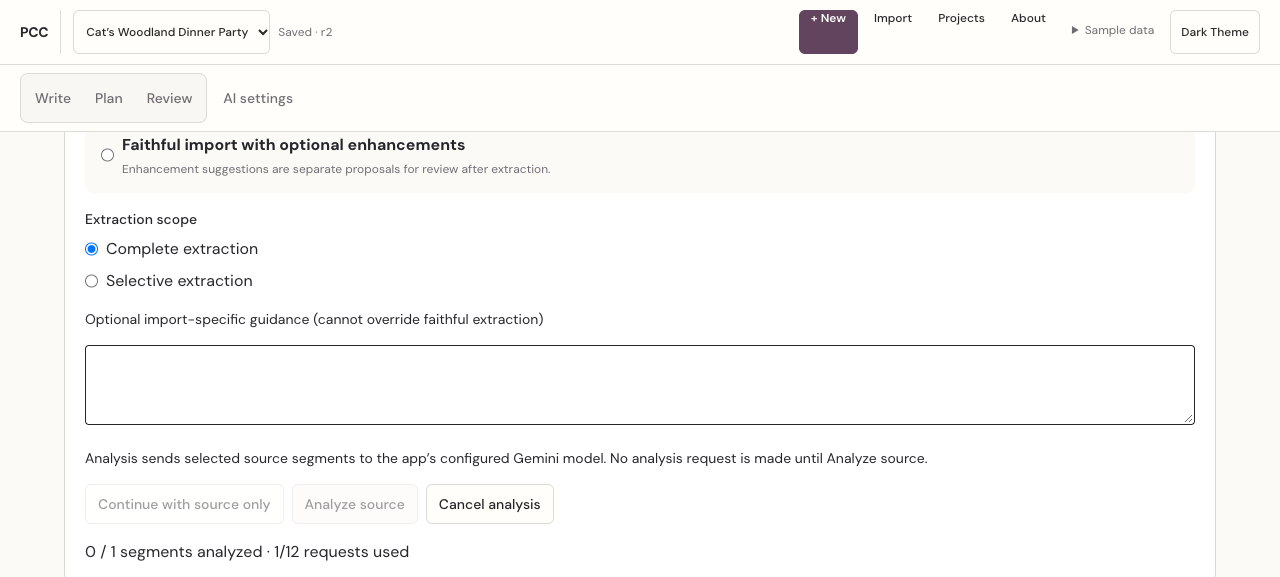
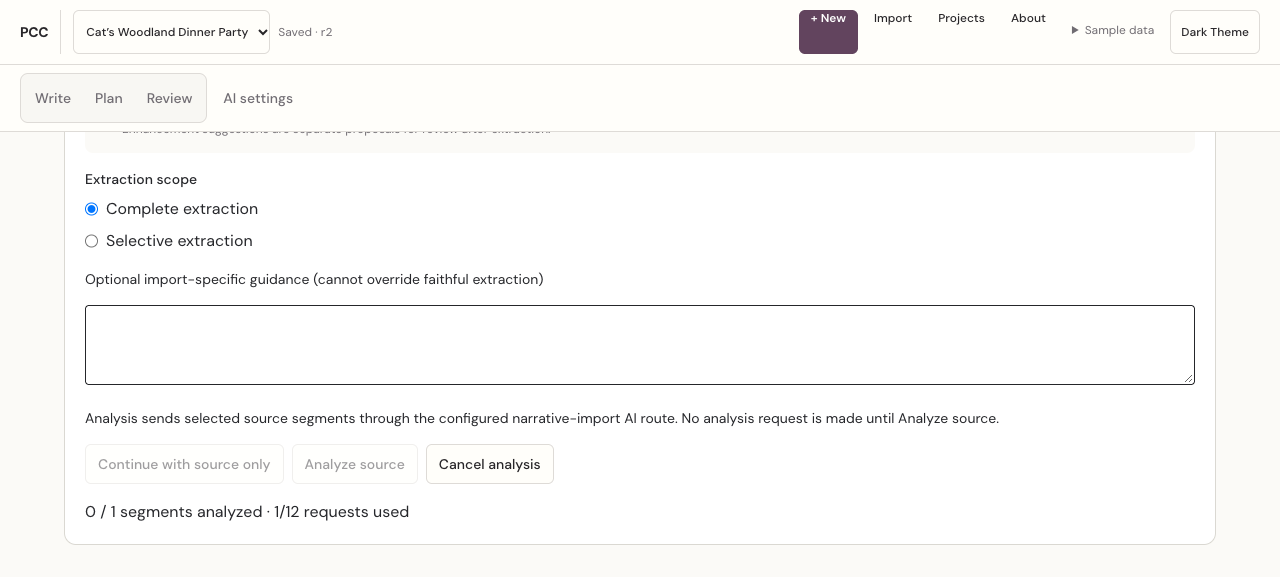
test: close PR18 browser qualification gaps

diff --git a/scripts/qa/import-cancellation-init.js b/scripts/qa/import-cancellation-init.js
@@ -9,6 +9,18 @@
     note: 'Isolated browser fixture; no provider is configured or contacted.',
     operations: {},
   };
+  // Current import planning binds a request to the provider identity contract.
+  // This is synthetic metadata only; it never represents a configured account.
+  const providerHubStatus = {
+    localPersonalConnectionsAvailable: false,
+    capabilityPolicyVersion: 'qa-synthetic-policy-v1',
+    credentialAuthorityIds: { 'gemini-managed': 'qa-synthetic-authority' },
+    connections: [{
+      id: 'gemini-managed',
+      selectedModelId: 'qa-synthetic-model',
+      models: [{ id: 'qa-synthetic-model', operationCapabilities: {} }],
+    }],
+  };
 
   const qa = {
     apiCalls: [],
@@ -94,6 +106,14 @@
     if (url.pathname === '/api/ai/capabilities') {
       qa.apiCalls.push({ path: url.pathname, method, mocked: true });
       return Promise.resolve(new Response(JSON.stringify(capabilityResponse), {
+        status: 200,
+        headers: { 'Content-Type': 'application/json' },
+      }));
+    }
+
+    if (url.pathname === '/api/ai/provider-hub/status') {
+      qa.apiCalls.push({ path: url.pathname, method, mocked: true, fixture: 'synthetic-provider-identity' });
+      return Promise.resolve(new Response(JSON.stringify(providerHubStatus), {
         status: 200,
         headers: { 'Content-Type': 'application/json' },
       }));

diff --git a/docs/ai-provider-hub/2026-11-26-pr18-completion-ledger.md b/docs/ai-provider-hub/2026-11-26-pr18-completion-ledger.md
@@ -20,6 +20,7 @@ Verified start: `202d0babf0a50bfd20bc5c885b9bf321af33becb` (`9a05e0aa403bb112fdf
 - Narrative extraction requests carry that identity. Server middleware verifies the request binding against the server-selected connection/model/reasoning, current capability evidence and current credential authority before handler dispatch.
 - Story SRB production authority remains disabled. Trusted test-only router injection may exercise the real route and adapter chain; no HTTP/body/query/browser activation flag is allowed.
 - Checkpoint attempt ownership stays in IndexedDB and must not confer canonical project authority or refund uncertain provider attempts.
+- Persisted checkpoints can survive a browser reload only while the process credential-authority identity still matches. A server-process identity change blocks automatic resume; cross-process requalification is deferred to a later authorized scope.
 
 ## Parallel packages
 
@@ -28,7 +29,7 @@ All four workers were spawned as GPT-6 Luna / Medium from the exact verified bas
 | Package | Finding | Worktree / branch | Commit | Status |
 |---|---|---|---|---|
 | Capability registry | CAT-F01 | `/Users/yusuf/.codex/worktrees/pcc-pr18-completion-002/cat-f01` / `codex/pcc-pr18-capability-20261126` | `cca19ccb19ca36a5f64f3a8c0852d2bde295f69c` → integration `0d4c5ac` | Evidence registry, catalog state handling and 13 focused tests reported pass; integrated |
-| Adaptive planner | ACE-F02 | `/Users/yusuf/.codex/worktrees/pcc-pr18-completion-002/ace-f02` / `codex/pcc-pr18-adaptive-context-20261126` | `98edb96156106e17abcece5bd80d893c7427b776` → integration `6d9488e` | Grapheme-safe bounded planner and 19 focused tests reported pass; integrated |
+| Adaptive planner | ACE-F02, ACE-F02-R1 | `/Users/yusuf/.codex/worktrees/pcc-pr18-completion-002/ace-f02` / `codex/pcc-pr18-adaptive-context-20261126`; targeted R1 worktree `/Users/yusuf/.codex/worktrees/pcc-pr18-review-002/ace-f02-r1` | `98edb96156106e17abcece5bd80d893c7427b776` → integrations `6d9488e`, `6878e26` | Grapheme-safe planner plus bounded 12-call execution, full plan identity, explicit scheduled/omitted coverage; 22 focused tests pass |
 | Checkpoint fencing | ACE-F01, ACE-F03 | `/Users/yusuf/.codex/worktrees/pcc-pr18-completion-002/ace-f01-f03` / `codex/pcc-pr18-ace-checkpoint-20261126` | `64e190d8e6a570d81e80ee3a0bd849f9583791e4` → integration `d40e388` | Transactional leases, attempt/incarnation fencing and six unit tests plus browser concurrency qualification reported pass; integrated with lead request contract |
 | Story SRB | SRB-F01 | `/Users/yusuf/.codex/worktrees/pcc-pr18-completion-002/srb-f01` / `codex/pcc-pr18-srb-20261126` | `f59a6ad961ae16e09227a9476d3123d5ba9cb7bd` → integration `1debdcc` | Local transport commit; 29 focused tests and local checks reported pass; integrated |
 
@@ -40,14 +41,12 @@ All four workers were spawned as GPT-6 Luna / Medium from the exact verified bas
 - Integrated `/generate/story` with the process-wide disabled SRB authority and bounded Responses story adapter. Only trusted router-option injection activates the deterministic qualification path; the normal route remains blocked by exact-model operation policy and disabled SRB. The route test exercises request parsing, provider admission, SRB prepare/run, the story transport adapter seam and response validation; it confirms no Gemini fallback. The integrated focused set passed 76/76 tests, typecheck and changed-file lint.
 - Integrated the real story transport chain behind a disabled-by-default production authority. Mock injection works only through trusted router options; ordinary HTTP requests remain blocked and never fall back to Gemini.
 - Independent security review found and the lead fixed a checkpoint race: renewal and commit now reject an attempt after its lease expires, even before another owner reclaims it. The checkpoint browser harness was rerun and passed the expiry-before-reclaim, live owner, explicit retry budget, stale attempt, incarnation, retention and storage failure checks.
-- A stale Gemini adapter test expected capability policy `.2` after the branch advanced the policy to `.3`; the assertion was updated. Final local checks passed: typecheck, lint, full unit suite 423/423, production build, and `git diff --check`. Build still reports the known large chunk warning (>500 KiB).
+- A stale Gemini adapter test expected capability policy `.2` after the branch advanced the policy to `.3`; the assertion was updated. The R1 correction retains the 12-call ceiling while binding up to 20 suggested offsets into checkpoint identity, persisting the scheduled prefix and explicit scheduled/omitted coverage, and preserving consumed attempts. Oversized legacy checkpoints stay stored but are excluded from resume with a warning. Final local checks passed: typecheck, lint, full unit suite 425/425, production build, and `git diff --check`; build retains its >500 KiB warning.
 - Browser checks on an isolated Chromium session and keyless local server: E2E-A through E2E-I passed; Stage0 J01–J12 and audit/performance phases passed; narrative mutations passed. These are synthetic local checks, not hosted or provider qualification.
-- Additional browser harnesses remain inconclusive: import cancellation timed out waiting for its Inspect-source flow to enable Analyze (no checks recorded); AI ownership and project lifecycle scripts failed on legacy/missing UI selectors. No product defect was established by those selector failures. The checkpoint harness did not exercise a true two-browser-context race.
+- Updated browser qualification passed Q06 cancellation, the genuine same-origin two-page/shared-IndexedDB lease race, AI ownership (five scenarios), and project lifecycle (five scenarios). The Q06 root cause was the fixture stubbing retired `/api/ai/capabilities` but not the current `/api/ai/provider-hub/status` identity contract; the fixture was repaired without production changes. No assertions were weakened. These scenarios used synthetic APIs and a keyless server.
 - Independent review reported no other material issue in the inspected source paths. It was a technical review, not formal acceptance.
-- Hosted workflow run [45772573384](https://github.com/Centaurioun/Proactive-Co-Creator/actions/runs/45772573384) passed on source candidate `813548aa82d208e6fe4e9c09f05010c4893bdd29`: Node 22.13.0, Node 22.x, Node 24.x, and hosted Chromium E2E A–I. PR #18's draft description was updated with the implementation, evidence and remaining limits.
+- Exact-head hosted CI is pending publication of the final qualification package; update this existing ledger entry with its run link and result after the exact candidate SHA completes.
 
 ## Current limitations
 
-- No provider, account, credential, paid-use, merge, or deployment action has occurred.
-- No provider/account qualification, credential action, paid use, merge, or deployment has occurred.
-- No provider/account qualification, credential action, paid use, merge, or deployment has occurred. The passing hosted run above verifies the complete source candidate; a documentation-only ledger follow-up records this hosted result.
+- No live provider/account/credential actions, paid use, merge, or deployment occurred. ChatGPT production inference remains disabled.
